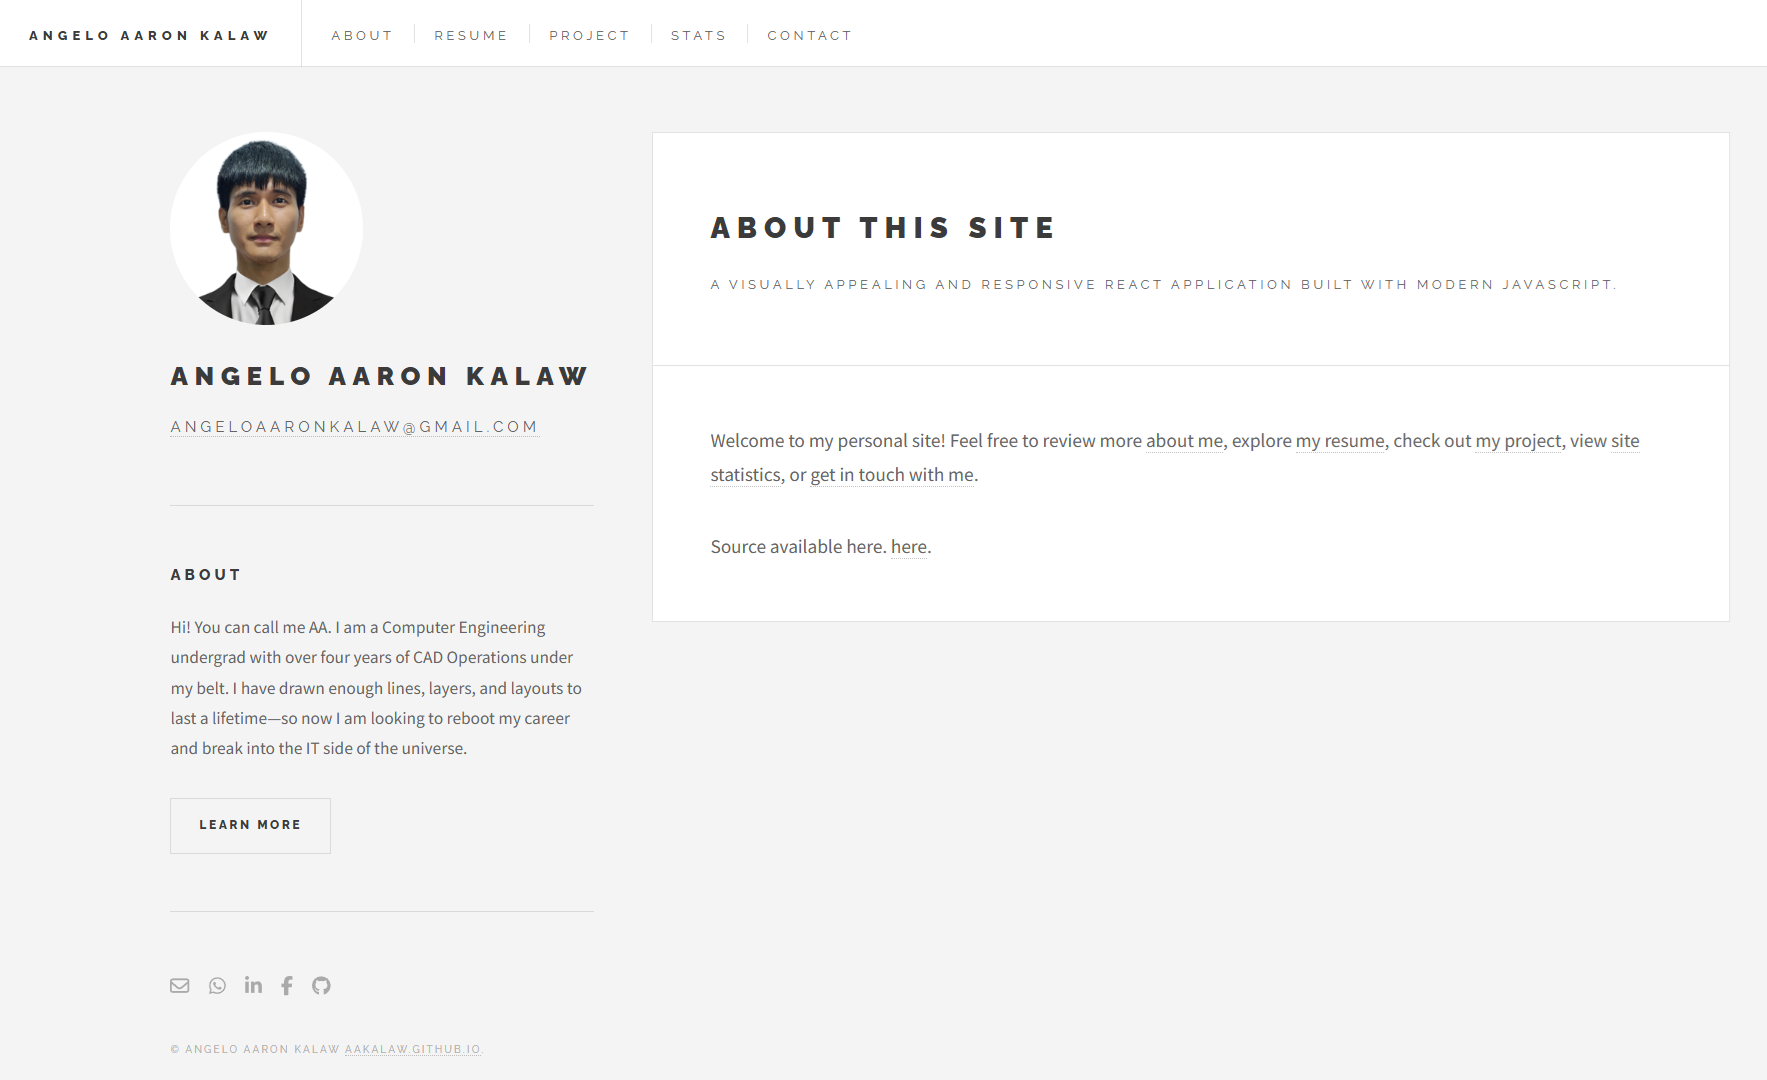
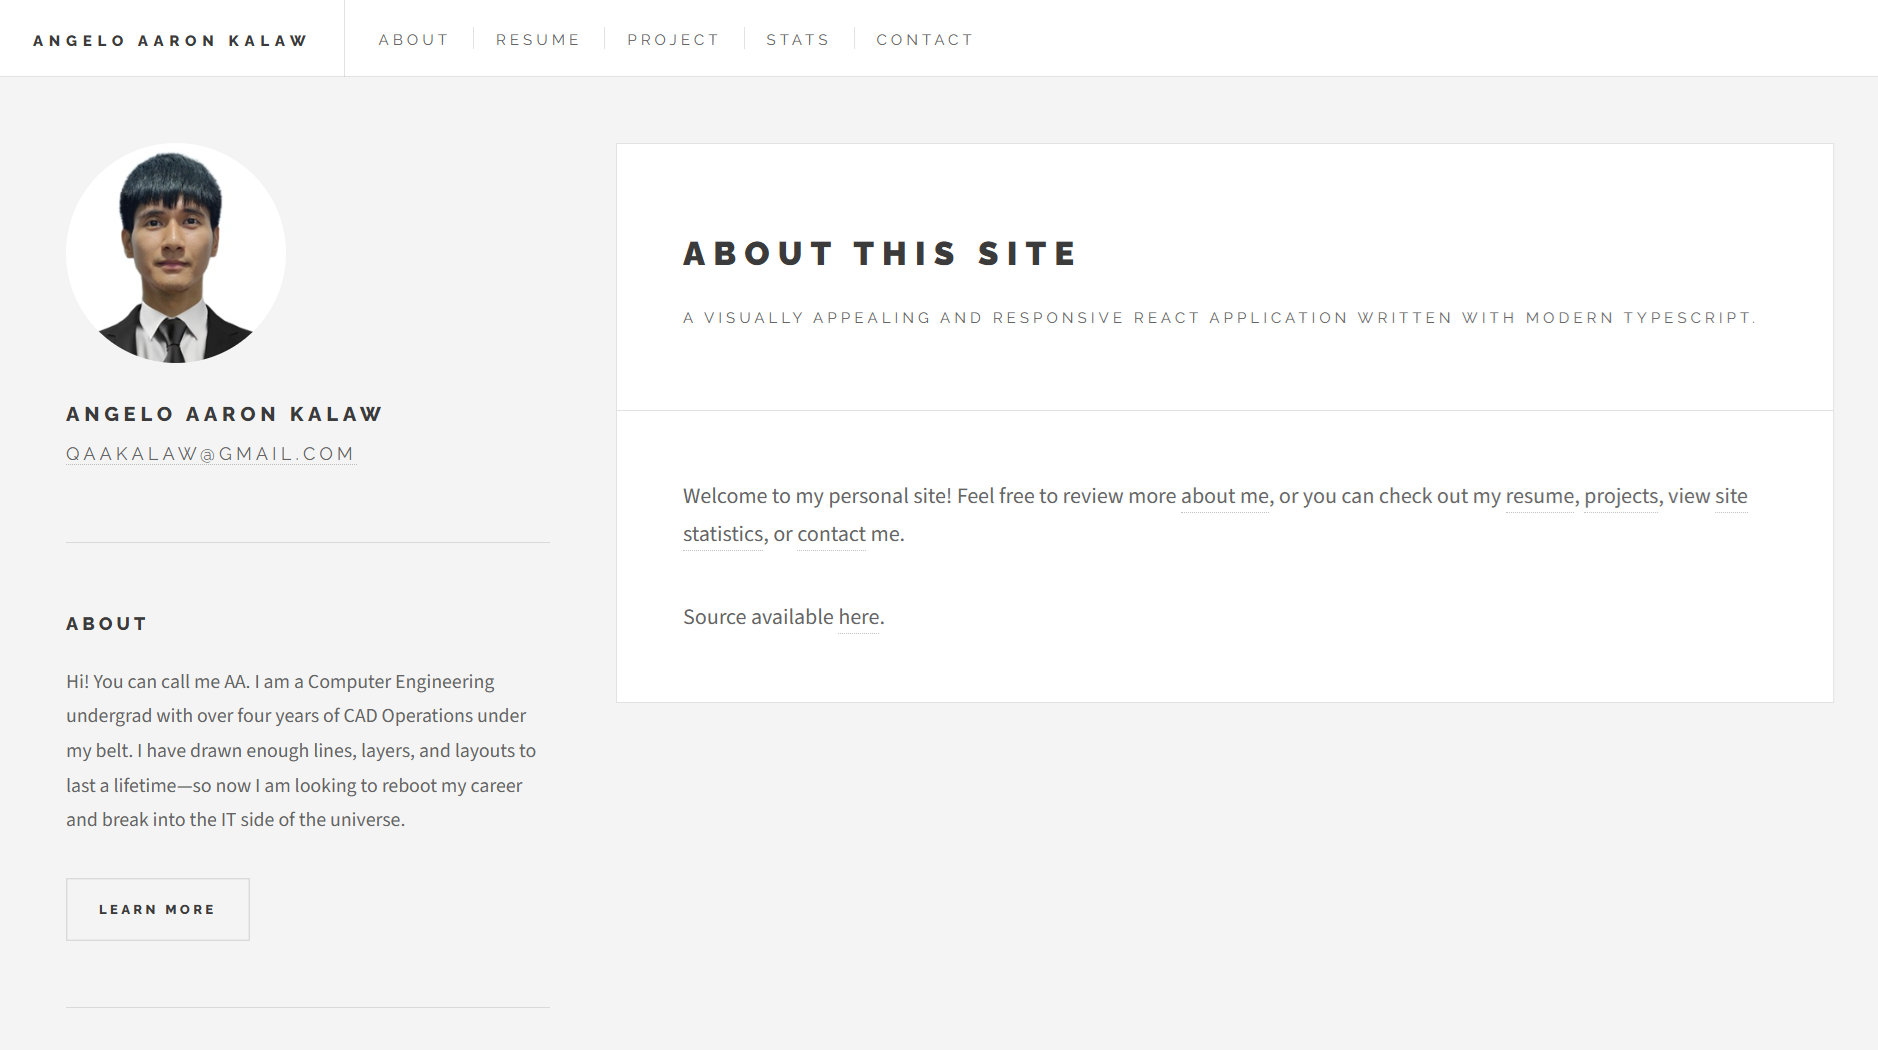
Update

diff --git a/src/data/projects.ts b/src/data/projects.ts
@@ -11,10 +11,10 @@ export interface Project {
 const data: Project[] = [
   {
     title: 'Personal Site',
-    subtitle: '2024 Last Update',
+    subtitle: '2026 Last Update',
     image: '/images/projects/personal-site.png',
-    date: '2024-07-30',
-    desc: 'A visually appealing and responsive React application built with modern JavaScript. ',
+    date: '2026-01-03',
+    desc: 'A visually appealing and responsive React application built with modern TypeScript. ',
     url: 'https://qaakalaw.github.io',
   },
 ];

diff --git a/src/components/Contact/EmailLink.tsx b/src/components/Contact/EmailLink.tsx
@@ -149,7 +149,7 @@ const EmailLink: React.FC<EmailLinkProps> = ({ loopMessage = false }) => {
       <a
         href={
           validateText(state.message)
-            ? `mailto:${state.message}angeloaaronkalaw@gmail.com`
+            ? `mailto:${state.message}qaakalaw@gmail.com`
             : ''
         }
       >
